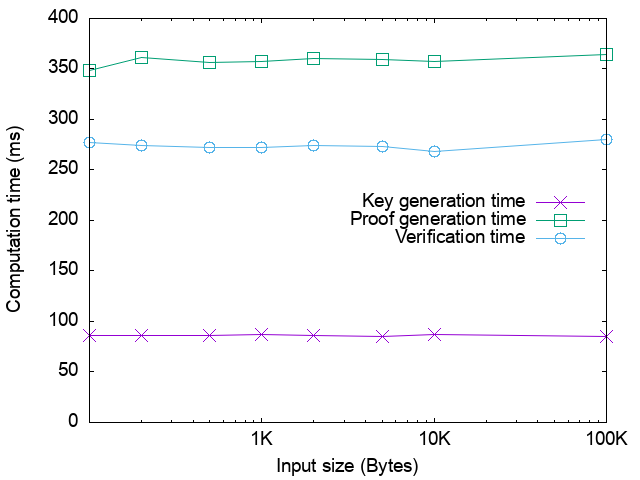
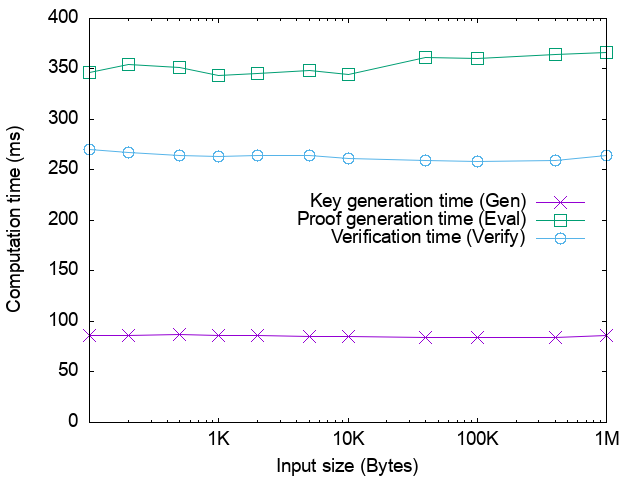
plot2 improved (more points)

diff --git a/simulation_results.py b/simulation_results.py
@@ -106,7 +106,7 @@ def parallel_verification(secret_key, public_key, input_byte_size, num_verificat
     f.close()
 
 if __name__ == "__main__":
-    input_byte_size = [100, 200, 500, 1000, 2000, 5000, 10000, 100000]
+    input_byte_size = [100, 200, 500, 1000, 2000, 5000, 10000, 40000, 100000, 400000, 1000000]
     # key generation time
     key_gen_times = []
     for _ in range(len(input_byte_size)):
@@ -120,51 +120,53 @@ if __name__ == "__main__":
         print("Key generation time: {} ms".format(gen_t/execution_times*1000))
         key_gen_times.append(gen_t/execution_times*1000)
 
-    # # proving time x=alpha_string_size
-    # prov_times = []
-    # for size in input_byte_size:
-    #     prov_t = 0.0
-    #     selected = 0
-    #     for _ in range(execution_times):
-    #         alpha_string = os.urandom(size)
-    #         t1 = time.perf_counter()
-    #         p_status, pi_string = ecvrf_edwards25519_sha512_elligator2.ecvrf_prove(secret_key, alpha_string)
-    #         b_status, beta_string = ecvrf_edwards25519_sha512_elligator2.ecvrf_proof_to_hash(pi_string)
-    #         if count_leading_zeros(beta_string) >= 5:
-    #             selected += 1
-    #         prov_t += time.perf_counter() - t1
-    #     prov_times.append(prov_t/execution_times*1000)
-    # print("Proving times for input size:")
-    # print(input_byte_size)
-    # print(prov_times)
+    # proving time x=alpha_string_size
+    prov_times = []
+    for size in input_byte_size:
+        prov_t = 0.0
+        selected = 0
+        for _ in range(execution_times):
+            alpha_string = os.urandom(size)
+            t1 = time.perf_counter()
+            p_status, pi_string = ecvrf_edwards25519_sha512_elligator2.ecvrf_prove(secret_key, alpha_string)
+            b_status, beta_string = ecvrf_edwards25519_sha512_elligator2.ecvrf_proof_to_hash(pi_string)
+            if count_leading_zeros(beta_string) >= 5:
+                selected += 1
+            prov_t += time.perf_counter() - t1
+        prov_times.append(prov_t/execution_times*1000)
+    print("Proving times for input size:")
+    print(input_byte_size)
+    print(prov_times)
 
-    # # verification time x=alpha_string_size
-    # times_list = []
-    # for _ in range(execution_times):
-    #     times = []
-    #     for size in input_byte_size:
-    #         verf_t = 0.0
-    #         selected = 0
-    #         alpha_string = os.urandom(size)
-    #         p_status, pi_string = ecvrf_edwards25519_sha512_elligator2.ecvrf_prove(secret_key, alpha_string)
-    #         b_status, beta_string = ecvrf_edwards25519_sha512_elligator2.ecvrf_proof_to_hash(pi_string)
-    #         t1 = time.perf_counter()
-    #         result, beta_string2 = ecvrf_edwards25519_sha512_elligator2.ecvrf_verify(public_key, pi_string, alpha_string)
-    #         if not (result == "VALID" and beta_string == beta_string2):
-    #             raise("Commitment not verified")
-    #         if count_leading_zeros(beta_string) >= 5:
-    #             selected += 1
-    #         times.append((time.perf_counter() - t1)*1000)
-    #     times_list.append(times)
-    # print("Verification times for input size:")
-    # print(input_byte_size)
-    # avg_times = [sum(x) / len(x) for x in zip(*times_list)]
-    # print([sum(x) / len(x) for x in zip(*times_list)])
+    # verification time x=alpha_string_size
+    times_list = []
+    for _ in range(execution_times):
+        times = []
+        for size in input_byte_size:
+            verf_t = 0.0
+            selected = 0
+            alpha_string = os.urandom(size)
+            p_status, pi_string = ecvrf_edwards25519_sha512_elligator2.ecvrf_prove(secret_key, alpha_string)
+            b_status, beta_string = ecvrf_edwards25519_sha512_elligator2.ecvrf_proof_to_hash(pi_string)
+            t1 = time.perf_counter()
+            result, beta_string2 = ecvrf_edwards25519_sha512_elligator2.ecvrf_verify(public_key, pi_string, alpha_string)
+            if not (result == "VALID" and beta_string == beta_string2):
+                raise("Commitment not verified")
+            if count_leading_zeros(beta_string) >= 5:
+                selected += 1
+            times.append((time.perf_counter() - t1)*1000)
+        times_list.append(times)
+    print("Verification times for input size:")
+    print(input_byte_size)
+    avg_times = [sum(x) / len(x) for x in zip(*times_list)]
+    print([sum(x) / len(x) for x in zip(*times_list)])
 
-    # f = open("experiments/vrf_keygen_prove_time.csv", "w")
-    # for i in range(len(input_byte_size)):
-    #     f.write(str(input_byte_size[i])+', '+str(key_gen_times[i])+', '+str(prov_times[i])+', '+str(avg_times[i])+'\n')
-    # f.close()
+    f = open("experiments/vrf_keygen_prove_time.csv", "w")
+    for i in range(len(input_byte_size)):
+        f.write(str(input_byte_size[i])+', '+str(key_gen_times[i])+', '+str(prov_times[i])+', '+str(avg_times[i])+'\n')
+    f.close()
+
+    quit()
 
     # # verification time x=number_of_verifications
     num_verifications = [1, 5, 10, 15, 20, 25, 30]
